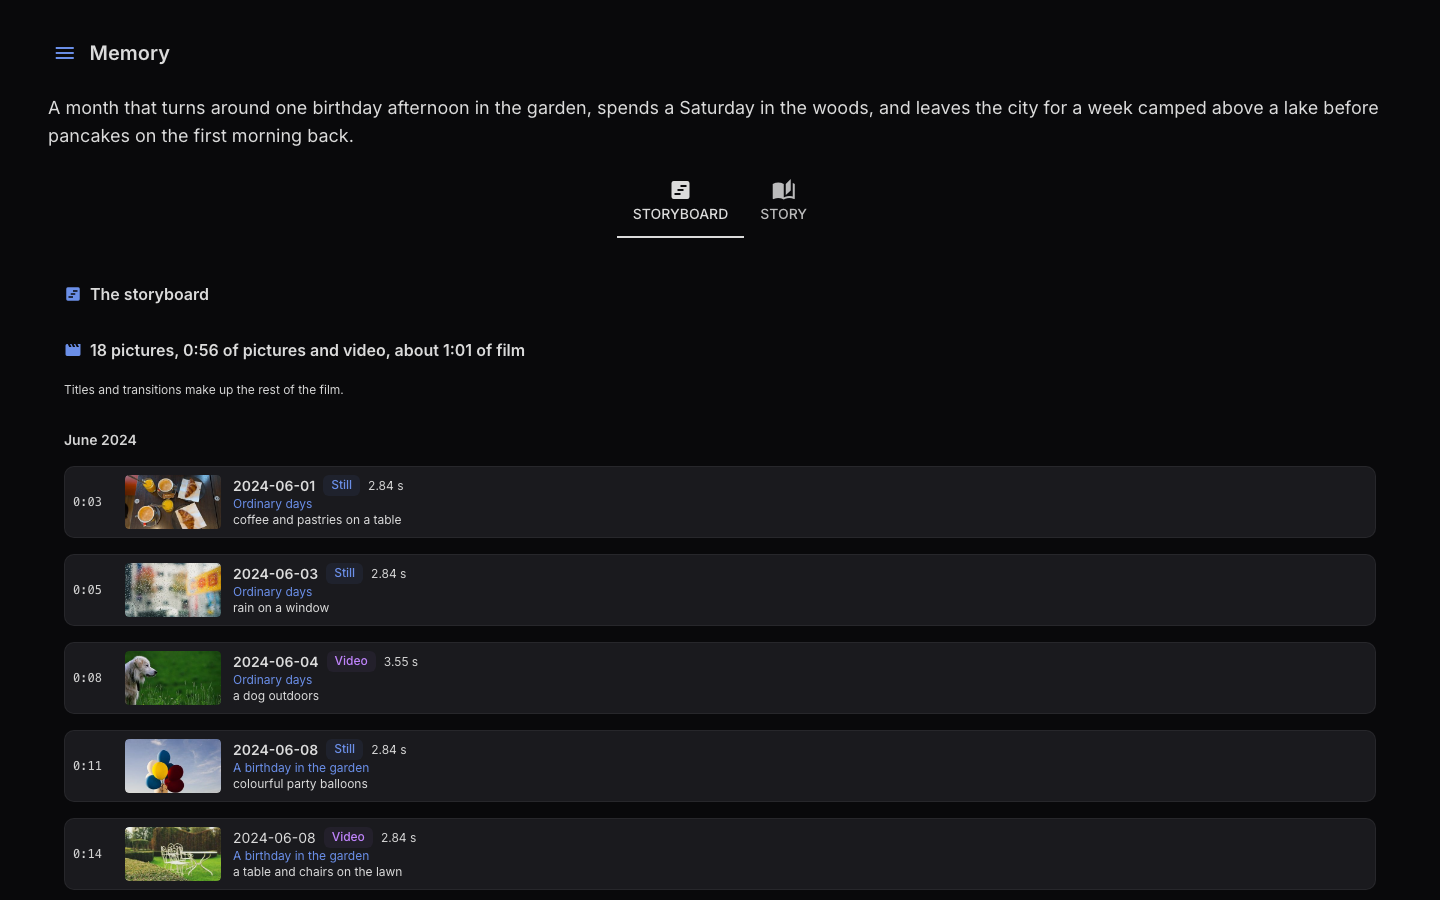
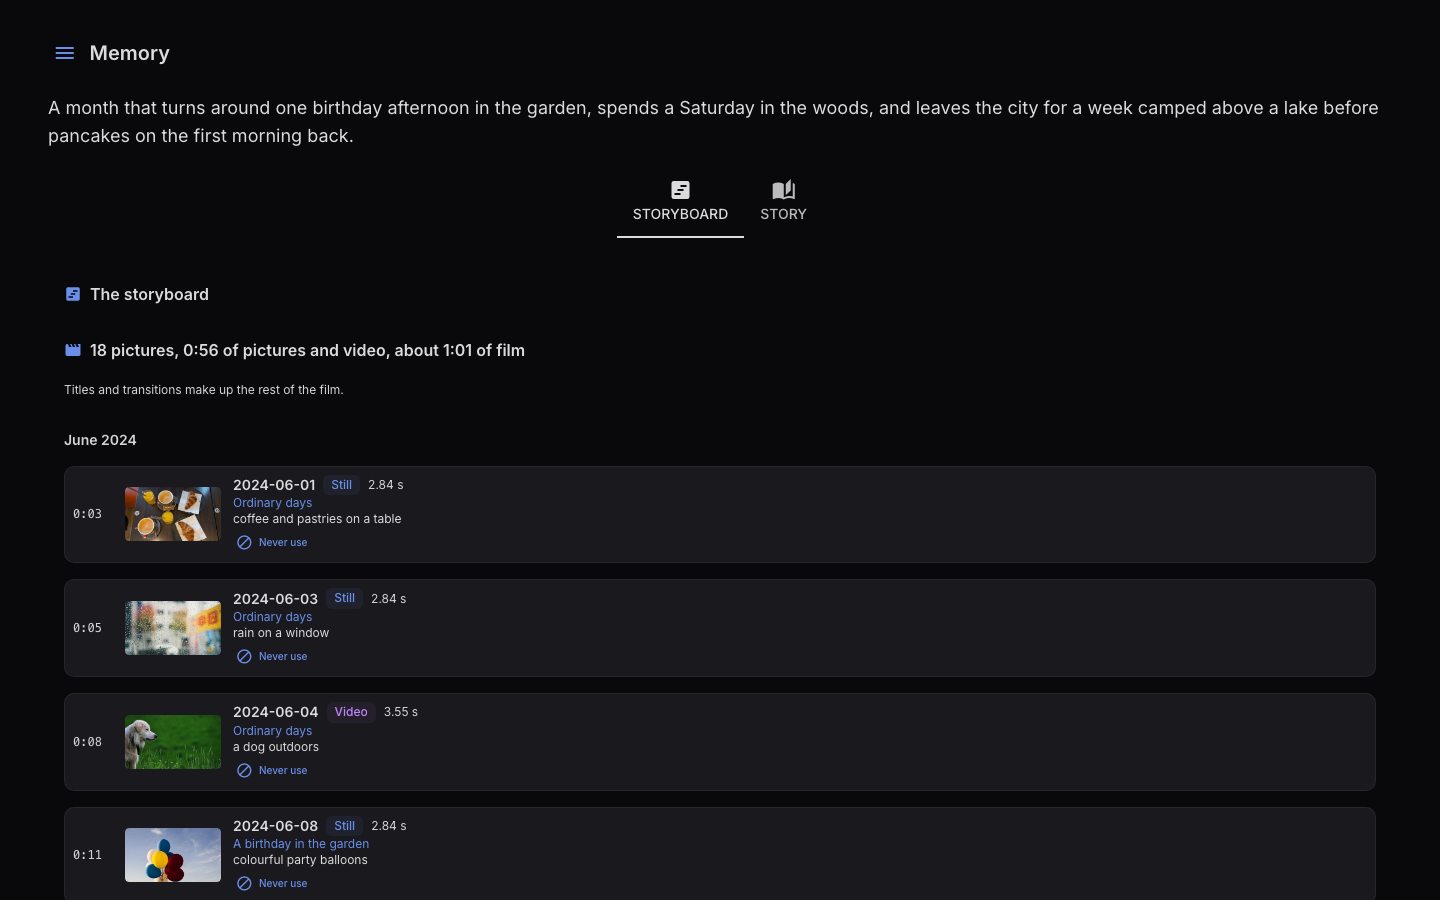
docs(audience): your word on a picture, walked through with recipe screenshots (#1324)
The screenshot recipe seeds a detector hold on the stock swim picture and
shoots the held card, the clear dialog, the cleared card, and Never use in
the pool and on the storyboard, light and dark. Overrule it carries the
walkthrough and a hold-to-film diagram; web UI, the pictures CLI page and the
introduction point to it. The pool and storyboard shots that now show the
buttons are regenerated.

Claude-Session: https://claude.ai/code/session_01JtwzzzTCNKKE5pDy1H1RTQ

Changed region(s): [[0.0625, 0.5289, 0.2812, 0.9956]]

diff --git a/tests/e2e/test_screenshots.py b/tests/e2e/test_screenshots.py
@@ -191,3 +191,90 @@ def test_capture_automation_walkthrough(page: Page, launch_app_url: str, launch_
     from tests.e2e.test_automation_pages import test_choose_generate_and_read_the_same_automatic_run
 
     test_choose_generate_and_read_the_same_automatic_run(page, launch_app_url, launch_workspace)
+
+
+# The stock library's swim picture, as a nudity detector that misread it would bank it: the
+# false positive the owner clears by hand. Seeded by the recipe, never placed by hand.
+_HELD = "trip-swim-02"
+
+
+def _save_part(page: Page, locator, directory: Path, name: str) -> None:
+    """One element of the page (a card, a dialog), redacted like every full frame."""
+    locator.scroll_into_view_if_needed()
+    # The thumbnail loads lazily: shoot the picture, not its spinner.
+    expect(locator.locator(".q-img__loading")).to_have_count(0, timeout=30_000)
+    page.mouse.move(0, 0)
+    redact_page(page)
+    assert_no_real_address(page)
+    page.wait_for_timeout(300)
+    locator.screenshot(path=str(directory / f"{name}.png"))
+
+
+def _pool_card(page: Page, asset_id: str):
+    """Page the pool to this picture's card; the pool lists the library in capture order."""
+    from immich_memories.ui.pages.clip_grid import CLIPS_PER_PAGE
+    from tests.e2e.fake_library import BY_ID, LIBRARY
+
+    expect(page.locator(".picture-decision").first).to_be_visible(timeout=60_000)
+    index = [picture.asset_id for picture in LIBRARY].index(asset_id)
+    for number in range(index // CLIPS_PER_PAGE):
+        page.get_by_role("button", name="Next page").click()
+        first = (number + 1) * CLIPS_PER_PAGE + 1
+        expect(page.get_by_text(re.compile(f"^{first}–"))).to_be_visible()
+    card = page.locator(".q-card").filter(has_text=BY_ID[asset_id].filename).first
+    expect(card).to_be_visible()
+    return card
+
+
+@pytest.mark.parametrize("theme", _THEMES)
+def test_capture_picture_decisions(
+    page: Page, launch_app_url: str, launch_workspace, screenshot_dir: Path, theme: str
+) -> None:
+    """Clear hold and Never use, on the storyboard and in the pool (#1324)."""
+    from tests.e2e.fake_library import CARRIERS
+    from tests.e2e.test_picture_decisions import flag_by_the_detector, store_of
+
+    store = store_of(launch_workspace)
+    flag_by_the_detector(store, _HELD)
+    shot, ticked = CARRIERS[1].asset_id, CARRIERS[2].asset_id
+    d = screenshot_dir
+    try:
+        _open_brief(page, launch_app_url)
+        set_theme(page, theme)
+        _open_brief(page, launch_app_url)
+        _choose(page, "Memory type", "Monthly Highlights")
+        _choose(page, "Month", "June")
+        page.get_by_role("button", name="Cut", exact=True).click()
+        shots = page.locator(".storyboard-shot")
+        expect(shots.nth(1)).to_be_visible(timeout=120_000)
+        shots.nth(1).get_by_role("button", name="Never use").click()
+        expect(shots.nth(1).get_by_text("You'll never use this picture.")).to_be_visible()
+        page.wait_for_timeout(3500)  # the toast fades
+        _save_part(page, shots.nth(1), d, _name("pictures-storyboard-never-use", theme))
+
+        page.get_by_role("button", name="Review the pool", exact=True).click()
+        card = _pool_card(page, _HELD)
+        expect(card.get_by_text("Held: a nudity detector flagged it.")).to_be_visible()
+        _save_part(page, card, d, _name("pictures-pool-held", theme))
+        card.get_by_role("button", name="Clear hold").click()
+        dialog = page.locator(".clear-hold-dialog")
+        expect(dialog.locator("img")).to_be_visible()
+        page.wait_for_timeout(600)
+        _save_part(page, dialog, d, _name("pictures-clear-dialog", theme))
+        dialog.get_by_role("button", name="Clear hold").click()
+        expect(card.get_by_text(re.compile("^You cleared its hold"))).to_be_visible()
+        page.wait_for_timeout(3500)
+        _save_part(page, card, d, _name("pictures-pool-cleared", theme))
+
+        page.get_by_role("button", name="Back to the cut").click()
+        page.get_by_role("button", name="Review the pool", exact=True).click()
+        other = _pool_card(page, ticked)
+        other.get_by_role("button", name="Never use").click()
+        expect(other.get_by_role("checkbox", name="Include")).not_to_be_checked()
+        page.wait_for_timeout(3500)
+        _save_part(page, other, d, _name("pictures-pool-never-use", theme))
+    finally:
+        from immich_memories.store import owner_decisions
+
+        for asset_id in (_HELD, shot, ticked):
+            owner_decisions.forget(store, asset_id)

diff --git a/tests/e2e/test_picture_decisions.py b/tests/e2e/test_picture_decisions.py
@@ -22,11 +22,12 @@ pytestmark = pytest.mark.e2e
 _ROOT = Path(__file__).resolve().parents[2]
 
 
-def _store(launch_workspace) -> Path:
+def store_of(launch_workspace) -> Path:
     return launch_workspace.cache_dir / "annotations.sqlite"
 
 
-def _flag_by_the_detector(store: Path, asset_id: str) -> None:
+def flag_by_the_detector(store: Path, asset_id: str) -> None:
+    """Bank a nudity-detector `yes` for one stock picture, as ingest would."""
     owner_decisions.forget(store, "nobody")  # the store and its schema
     version = Config().editorial.head_versions["nsfw_marqo"]
     with sqlite3.connect(store) as connection:
@@ -69,11 +70,11 @@ def _cli(launch_workspace, *args: str) -> str:
 def test_never_use_from_the_storyboard_and_clear_a_hold_from_the_pool(
     page: Page, launch_app_url: str, launch_workspace
 ) -> None:
-    store = _store(launch_workspace)
+    store = store_of(launch_workspace)
     shot = CARRIERS[0].asset_id
     left_out = next(picture for picture in LIBRARY if picture not in CARRIERS)
     held = left_out.asset_id
-    _flag_by_the_detector(store, held)
+    flag_by_the_detector(store, held)
     try:
         _brief_for_june(page, launch_app_url)
         page.get_by_role("button", name="Cut", exact=True).click()

diff --git a/docs-site/docs/how-it-chooses/overrule-it.md b/docs-site/docs/how-it-chooses/overrule-it.md
@@ -2,6 +2,8 @@
 title: Overrule it
 ---
 
+import ThemedScreenshot from '@site/src/components/ThemedScreenshot';
+
 # Overrule it
 
 Reader: power user, with a newcomer summary first.
@@ -62,18 +64,56 @@ after a cut, what the cut did with it ([The web UI](../make/web-ui.mdx#the-media
 The CLI does the same with `generate --include ASSET_ID` and `--exclude ASSET_ID`, both repeatable.
 The web pool's ticks live in your session; **Start over** forgets them.
 
-## Clear a hold, or never use a picture
+## Your word on a picture
 
-Under every picture in the pool and every shot on the storyboard:
+Some pictures are held by the family-viewing gate: a nudity detector flagged the picture or its Live
+clip, or an earlier cut read a private moment in its caption. Detectors miss both ways, and a swim
+in a lake looks a lot like what they're trained to catch. Holds only ever lean cautious, so a held
+picture you know is fine is yours to clear. And some pictures you just never want in a film. Both
+are one click on the picture, in the media pool or on the storyboard.
 
-- **Clear hold**, where something holds the picture: a nudity detector flagged it or its Live clip,
-  or an earlier cut read a private moment in its caption. It asks first, and shows the picture. A
-  cleared picture plays in every film, and nothing the app reads later puts the hold back.
-- **Never use**: out of every film from the next cut on, and unticked in the pool.
-- **Undo**: forget your decision.
+A held picture says why, in plain words, with **Clear hold** under it:
 
-Unlike a tick, these last: they're kept with the library, not the session, and every tier reads them.
-The terminal does the same:
+<ThemedScreenshot name="pictures-pool-held" alt="A pool card: the swim picture, 'Held: a nudity detector flagged it.', then Clear hold and Never use" />
+
+**Clear hold** asks first, and shows you the picture while it does. The app never clears a hold on
+its own, and there's no bulk clear.
+
+<ThemedScreenshot name="pictures-clear-dialog" alt="The dialog: 'Clear this picture's hold?', the picture, the reason, and Cancel or Clear hold" />
+
+Once cleared, the card says so, and **Undo** is there if you change your mind:
+
+<ThemedScreenshot name="pictures-pool-cleared" alt="The same card after clearing: 'You cleared its hold (a nudity detector flagged it).', Never use and Undo" />
+
+**Never use** keeps a picture out of every film from the next cut on. In the pool it also unticks
+it; on the storyboard the shot says so until you cut again.
+
+<ThemedScreenshot name="pictures-pool-never-use" alt="A pool card after Never use: 'You'll never use this picture.', Undo, and Include unticked" />
+
+<ThemedScreenshot name="pictures-storyboard-never-use" alt="A storyboard shot after Never use: 'You'll never use this picture.' and Undo" />
+
+What each answer does, film by film:
+
+```mermaid
+flowchart TD
+  hold["a hold on the picture<br/>detector on it or its Live clip, a private moment in its caption,<br/>most of its capture run flagged"] --> you{"your decision<br/>store/owner_decisions.py"}
+  you -- "none" --> stands["the hold stands"]
+  stands --> fo{"which hold?"}
+  fo -- "family_only: a detector, a flagged run" --> household["plays in a household film,<br/>held back from a shared one"]
+  fo -- "do_not_show: a private moment" --> none1["leaves every film"]
+  you -- "Clear hold" --> share["share: plays in every film,<br/>nothing re-asked, on every tier"]
+  you -- "Never use" --> none2["no film, ever;<br/>a tick doesn't bring it back"]
+  share -. "Undo" .-> stands
+  none2 -. "Undo" .-> stands
+```
+
+Every film the app cuts today is a household film, so clearing matters most for a picture a
+caption reading refused. A carrier rule isn't a hold: a screenshot or a document is refused for what
+it is, and clearing doesn't change that.
+
+Unlike a tick, your decisions last: they're kept with the library, not the session, every tier reads
+them, and the web page and the terminal see each other's. A Live Photo is one picture, so a decision
+covers its clip too. The terminal does the same:
 
 ```bash
 immich-memories pictures show 3f1c9a2e-...        # what holds it, and what you decided
@@ -83,7 +123,8 @@ immich-memories pictures undo 3f1c9a2e-...
 immich-memories pictures list                     # every decision you've made
 ```
 
-More in [Family, audience and duplicates](./family-audience-duplicates.md#your-word-on-a-picture).
+The rules behind it are on [Family, audience and
+duplicates](./family-audience-duplicates.md#your-word-on-a-picture).
 
 ## Tell it who's who
 

diff --git a/docs-site/docs/how-it-chooses/family-audience-duplicates.md b/docs-site/docs/how-it-chooses/family-audience-duplicates.md
@@ -140,22 +140,24 @@ Nothing in the cut changes. The run summary prints the count, and `runs why` sho
 
 ## Your word on a picture
 
-Two buttons under every picture in the media pool and every shot on the storyboard, and the same two
-in the CLI (`pictures clear-hold` and `pictures never-use`):
+You answer a hold per picture, in the media pool, on the storyboard or with `pictures` in the CLI.
+The walkthrough with screenshots is on [Overrule it](./overrule-it.md#your-word-on-a-picture). The
+rules:
 
-- **Clear hold** shows where something holds the picture: a detector flagged it or its Live clip, or
-  an earlier cut banked a hold on it (a caption that names a private moment, most of its capture run
-  flagged). It asks first and shows the picture. Once cleared, the gate says `share` for it without
-  asking anything, on every tier, and no banked hold or earlier refusal comes back. It doesn't lift a
-  carrier rule: a screenshot stays a screenshot.
-- **Never use** keeps the picture out of every film from the next cut on. It stays evidence that its
-  moment happened, and never plays. A tick in the pool doesn't bring it back.
-- **Undo** forgets what you decided, and the app's own holds apply again.
+- **Clear hold** is offered where something holds the picture: a detector flagged it or its Live
+  clip, or an earlier cut banked a hold (a caption that names a private moment, most of its capture
+  run flagged). A cleared unit is `share` in `AudienceGate.verdict_of` before any check runs, on every
+  tier, and no banked hold or earlier refusal comes back. A unit is cleared only when you cleared
+  every picture it shows. A carrier rule still refuses first.
+- **Never use** writes `never_auto`: the picture stays evidence that its moment happened and is
+  never a carrier. A tick doesn't bring it back.
+- **Undo** forgets the decision, and the banked holds apply again, since clearing never deleted them.
 
-Nothing clears a hold by itself: no reading, no model, no bulk action. A Live Photo is one picture,
-so the decision covers its clip too. The decisions are rows in the library's annotation store
-(`store/owner_decisions.py`), one per picture, so they last across runs and scopes, and the web page
-and the CLI can't overwrite each other's. `runs why ASSET_ID` prints yours last.
+Nothing clears a hold by itself: no reading, no model, no bulk action. The decisions are
+`source='owner'` rows in the library's annotation store (`store/owner_decisions.py`), one per
+picture, so they last across runs and scopes and the web page and the CLI can't overwrite each
+other's. They stay off the line a reader sees, so a decision re-asks no reading. `runs why ASSET_ID`
+prints yours last.
 
 ## Duplicates
 

diff --git a/docs-site/docs/make/cli/pictures.md b/docs-site/docs/make/cli/pictures.md
@@ -3,6 +3,8 @@ sidebar_position: 6
 title: pictures
 ---
 
+import ThemedScreenshot from '@site/src/components/ThemedScreenshot';
+
 # pictures
 
 Reader: power user.
@@ -13,6 +15,29 @@ place, so either one sees what the other did. Every tier reads it in every later
 the [CLI reference](../../reference/cli-reference.md#pictures).
 
 The asset id is the one `runs why`, `runs story` and Immich show.
+
+```bash
+$ immich-memories pictures show trip-swim-02
+Held: a nudity detector flagged it.
+
+$ immich-memories pictures clear-hold trip-swim-02
+Held: a nudity detector flagged it.
+Once cleared, every film may use it, and nothing the app reads later puts the
+hold back. `pictures undo` does.
+Clear the hold on trip-swim-02? [y/N]: y
+✓ Cleared: trip-swim-02 can play in the next cut.
+
+$ immich-memories pictures never-use home-rain-window-01
+✓ home-rain-window-01 won't be in any film from the next cut on.
+
+$ immich-memories pictures list
+home-rain-window-01  never use
+trip-swim-02  hold cleared
+```
+
+The same picture in the media pool, after that `clear-hold`:
+
+<ThemedScreenshot name="pictures-pool-cleared" alt="The pool card of the cleared picture: 'You cleared its hold (a nudity detector flagged it).'" />
 
 ## pictures show
 
@@ -54,4 +79,4 @@ immich-memories pictures list                # every picture you cleared or rule
 ```
 
 A Live Photo is one picture: a decision on its still covers its clip too. Why these rules:
-[Family, audience and duplicates](../../how-it-chooses/family-audience-duplicates.md#your-word-on-a-picture).
+[Your word on a picture](../../how-it-chooses/overrule-it.md#your-word-on-a-picture).
